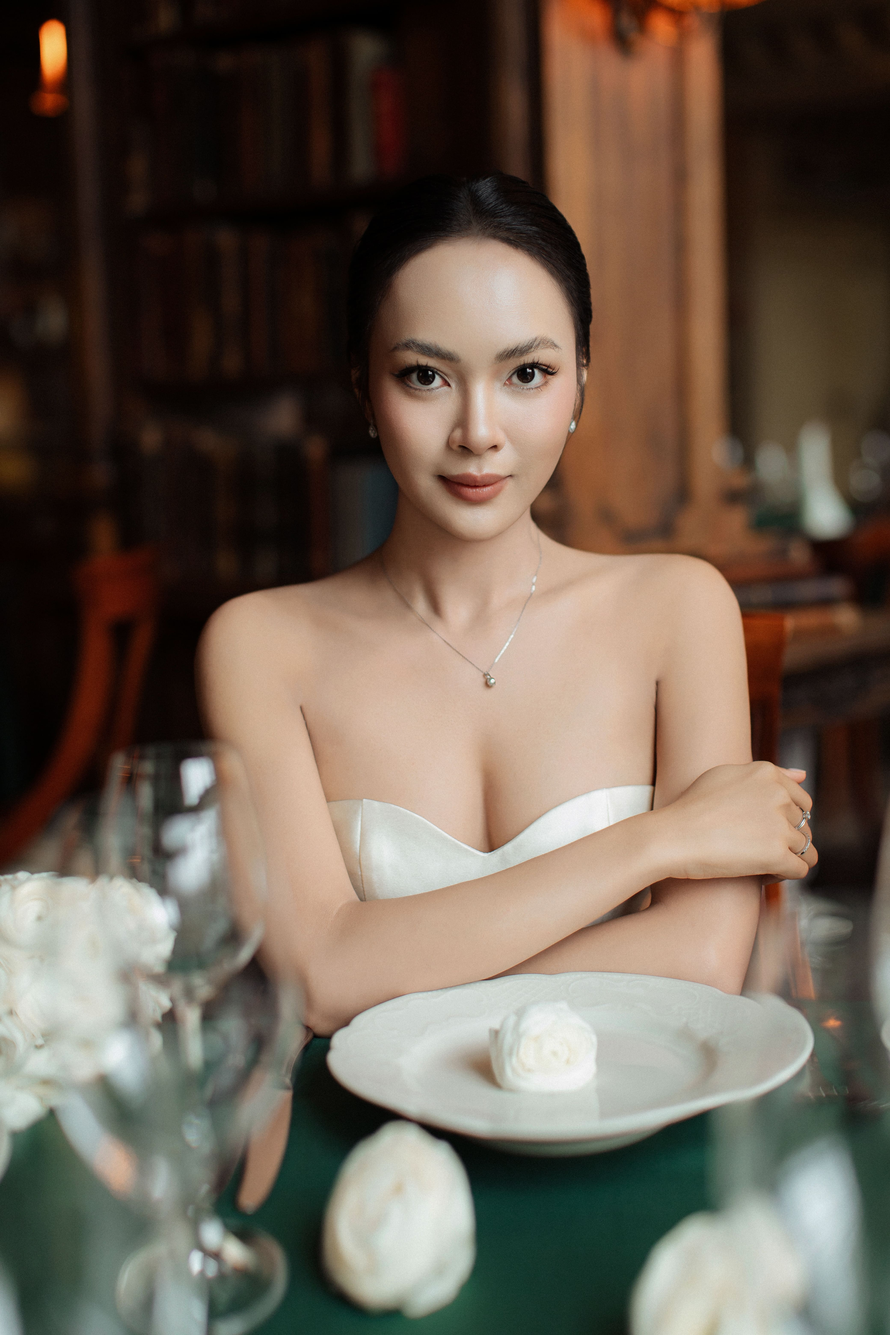
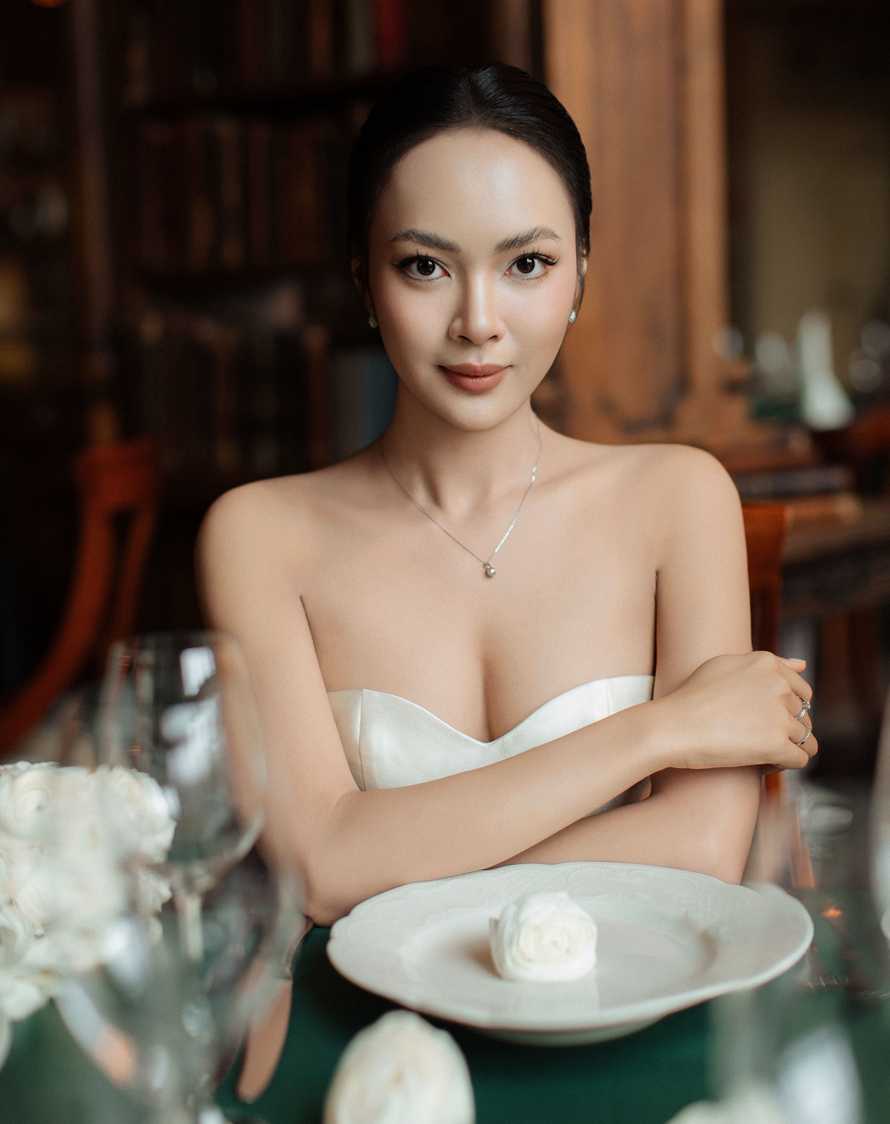
Done final

diff --git a/index.html b/index.html
@@ -2,27 +2,27 @@
 	<meta charset="UTF-8">
 	<meta name="viewport" content="width=device-width, initial-scale=1">
 	<link rel="profile" href="https://gmpg.org/xfn/11">
-		<meta property="og:image" content="https://i.ibb.co/v39dh2H/IMG-8586-copy-2.jpg">
+		<meta property="og:image" content="https://i.ibb.co/C8DMDqw/IMG-8114-copy.jpg">
 		
 <!-- Search Engine Optimization by Rank Math - https://rankmath.com/ -->
-<title>Thiêm Hiền - Thiệp cưới online</title>
+<title>Thiêm  & Hiền - Thiệp cưới online</title>
 <meta name="robots" content="index, follow, max-snippet:-1, max-video-preview:-1, max-image-preview:large">
 <link rel="canonical" href="https://thiepdientu.github.io/hienthiem/">
 <meta property="og:locale" content="vi_VN">
 <meta property="og:type" content="article">
-<meta property="og:title" content="Thiêm Hiền - Thiệp cưới online">
+<meta property="og:title" content="Thiêm & Hiền - Thiệp cưới online">
 <meta property="og:url" content="https://thiepdientu.github.io/hienthiem/">
-<meta property="og:site_name" content="Thiêm Hiền - Thiệp cưới online">
+<meta property="og:site_name" content="Thiêm  & Hiền - Thiệp cưới online">
 <meta property="og:updated_time" content="2024-03-13T11:56:14+00:00">
-<meta property="og:image" content="https://i.ibb.co/v39dh2H/IMG-8586-copy-2.jpg">
-<meta property="og:image:secure_url" content="https://i.ibb.co/v39dh2H/IMG-8586-copy-2.jpg">
+<meta property="og:image" content="https://i.ibb.co/C8DMDqw/IMG-8114-copy.jpg">
+<meta property="og:image:secure_url" content="https://i.ibb.co/C8DMDqw/IMG-8114-copy.jpg">
 <meta property="og:image:width" content="961">
 <meta property="og:image:height" content="1440">
-<meta property="og:image:alt" content="Thiêm Hiền - Thiệp cưới online">
+<meta property="og:image:alt" content="Thiêm  & Hiền - Thiệp cưới online">
 <meta property="og:image:type" content="image/jpeg">
 <meta name="twitter:card" content="summary_large_image">
-<meta name="twitter:title" content="Thiêm Hiền - Thiệp cưới online">
-<meta name="twitter:image" content="https://i.ibb.co/v39dh2H/IMG-8586-copy-2.jpg">
+<meta name="twitter:title" content="Thiêm  & Hiền - Thiệp cưới online">
+<meta name="twitter:image" content="https://i.ibb.co/C8DMDqw/IMG-8114-copy.jpg">
 <!-- /Rank Math WordPress SEO plugin -->
 
 <link rel="dns-prefetch" href="//cdn.jsdelivr.net">
@@ -494,8 +494,8 @@ Số 09, Chu Văn An, Yết Kiêu, Hà Đông, Hà Nội ( đón khách 16:30 - 
             </a>
         </div>
                 <div class="swiper-slide">
-            <a href="images/IMG_8570 copy.jpg" data-fancybox="gallery">
-            <img src="images/IMG_8570 copy.jpg" style="object-position:">
+            <a href="images/IMG_8528 copy.jpg" data-fancybox="gallery">
+            <img src="images/IMG_8528 copy.jpg" style="object-position:">
             </a>
         </div>
          <div class="swiper-slide">
